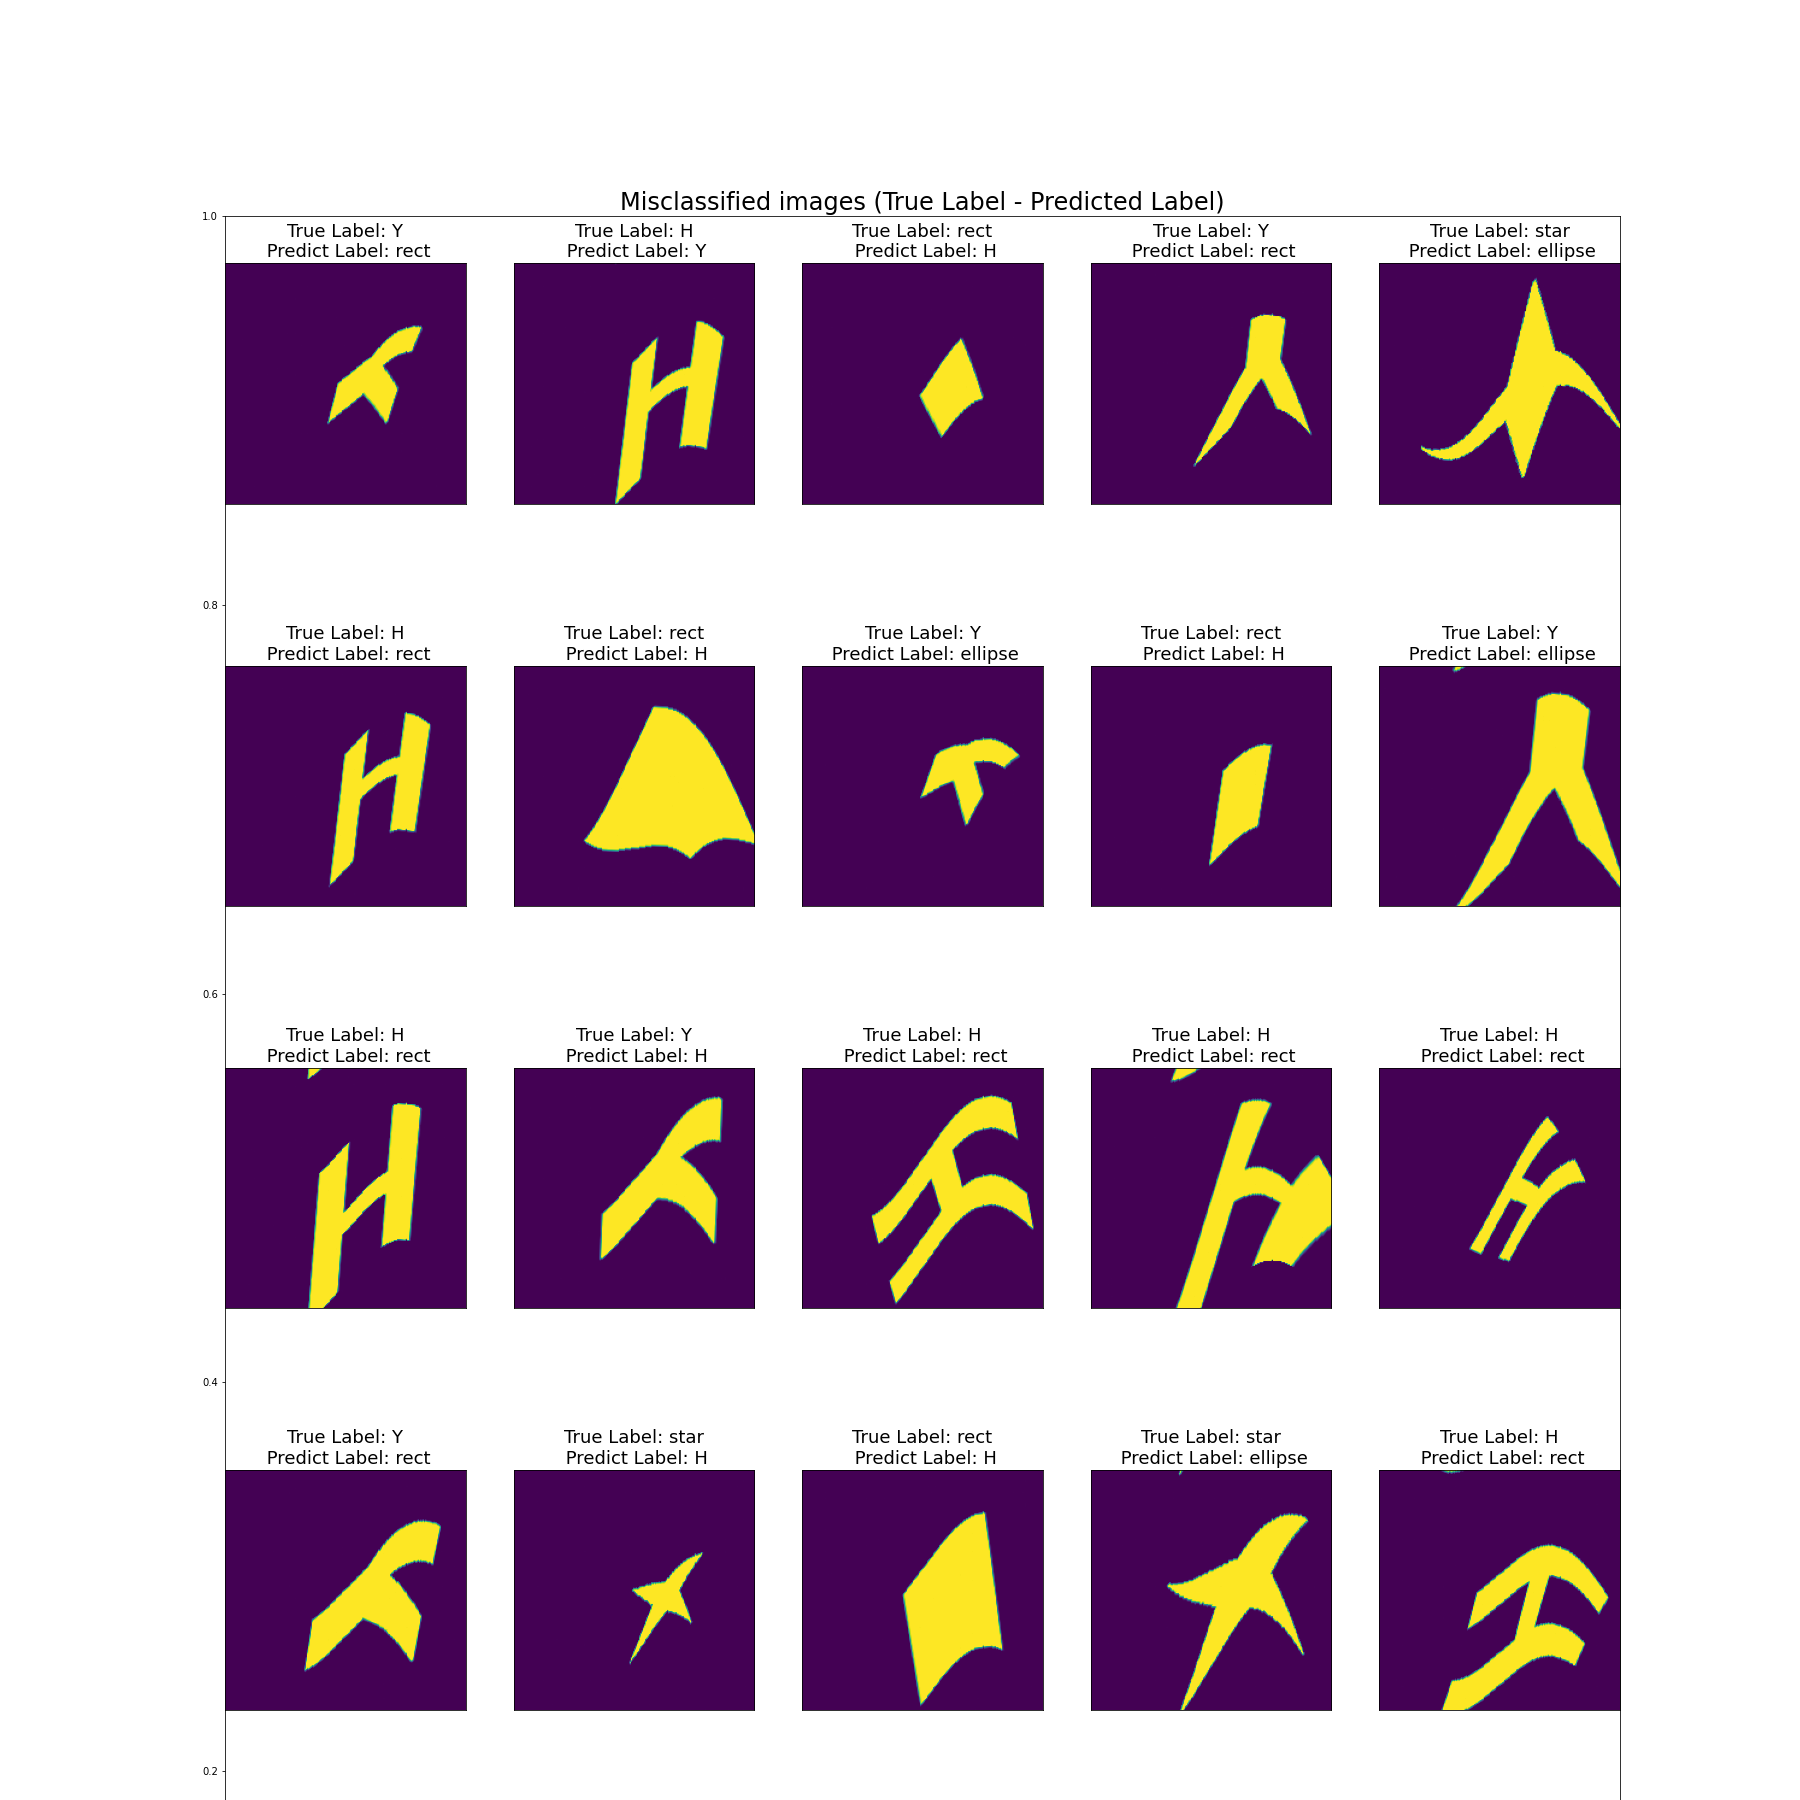
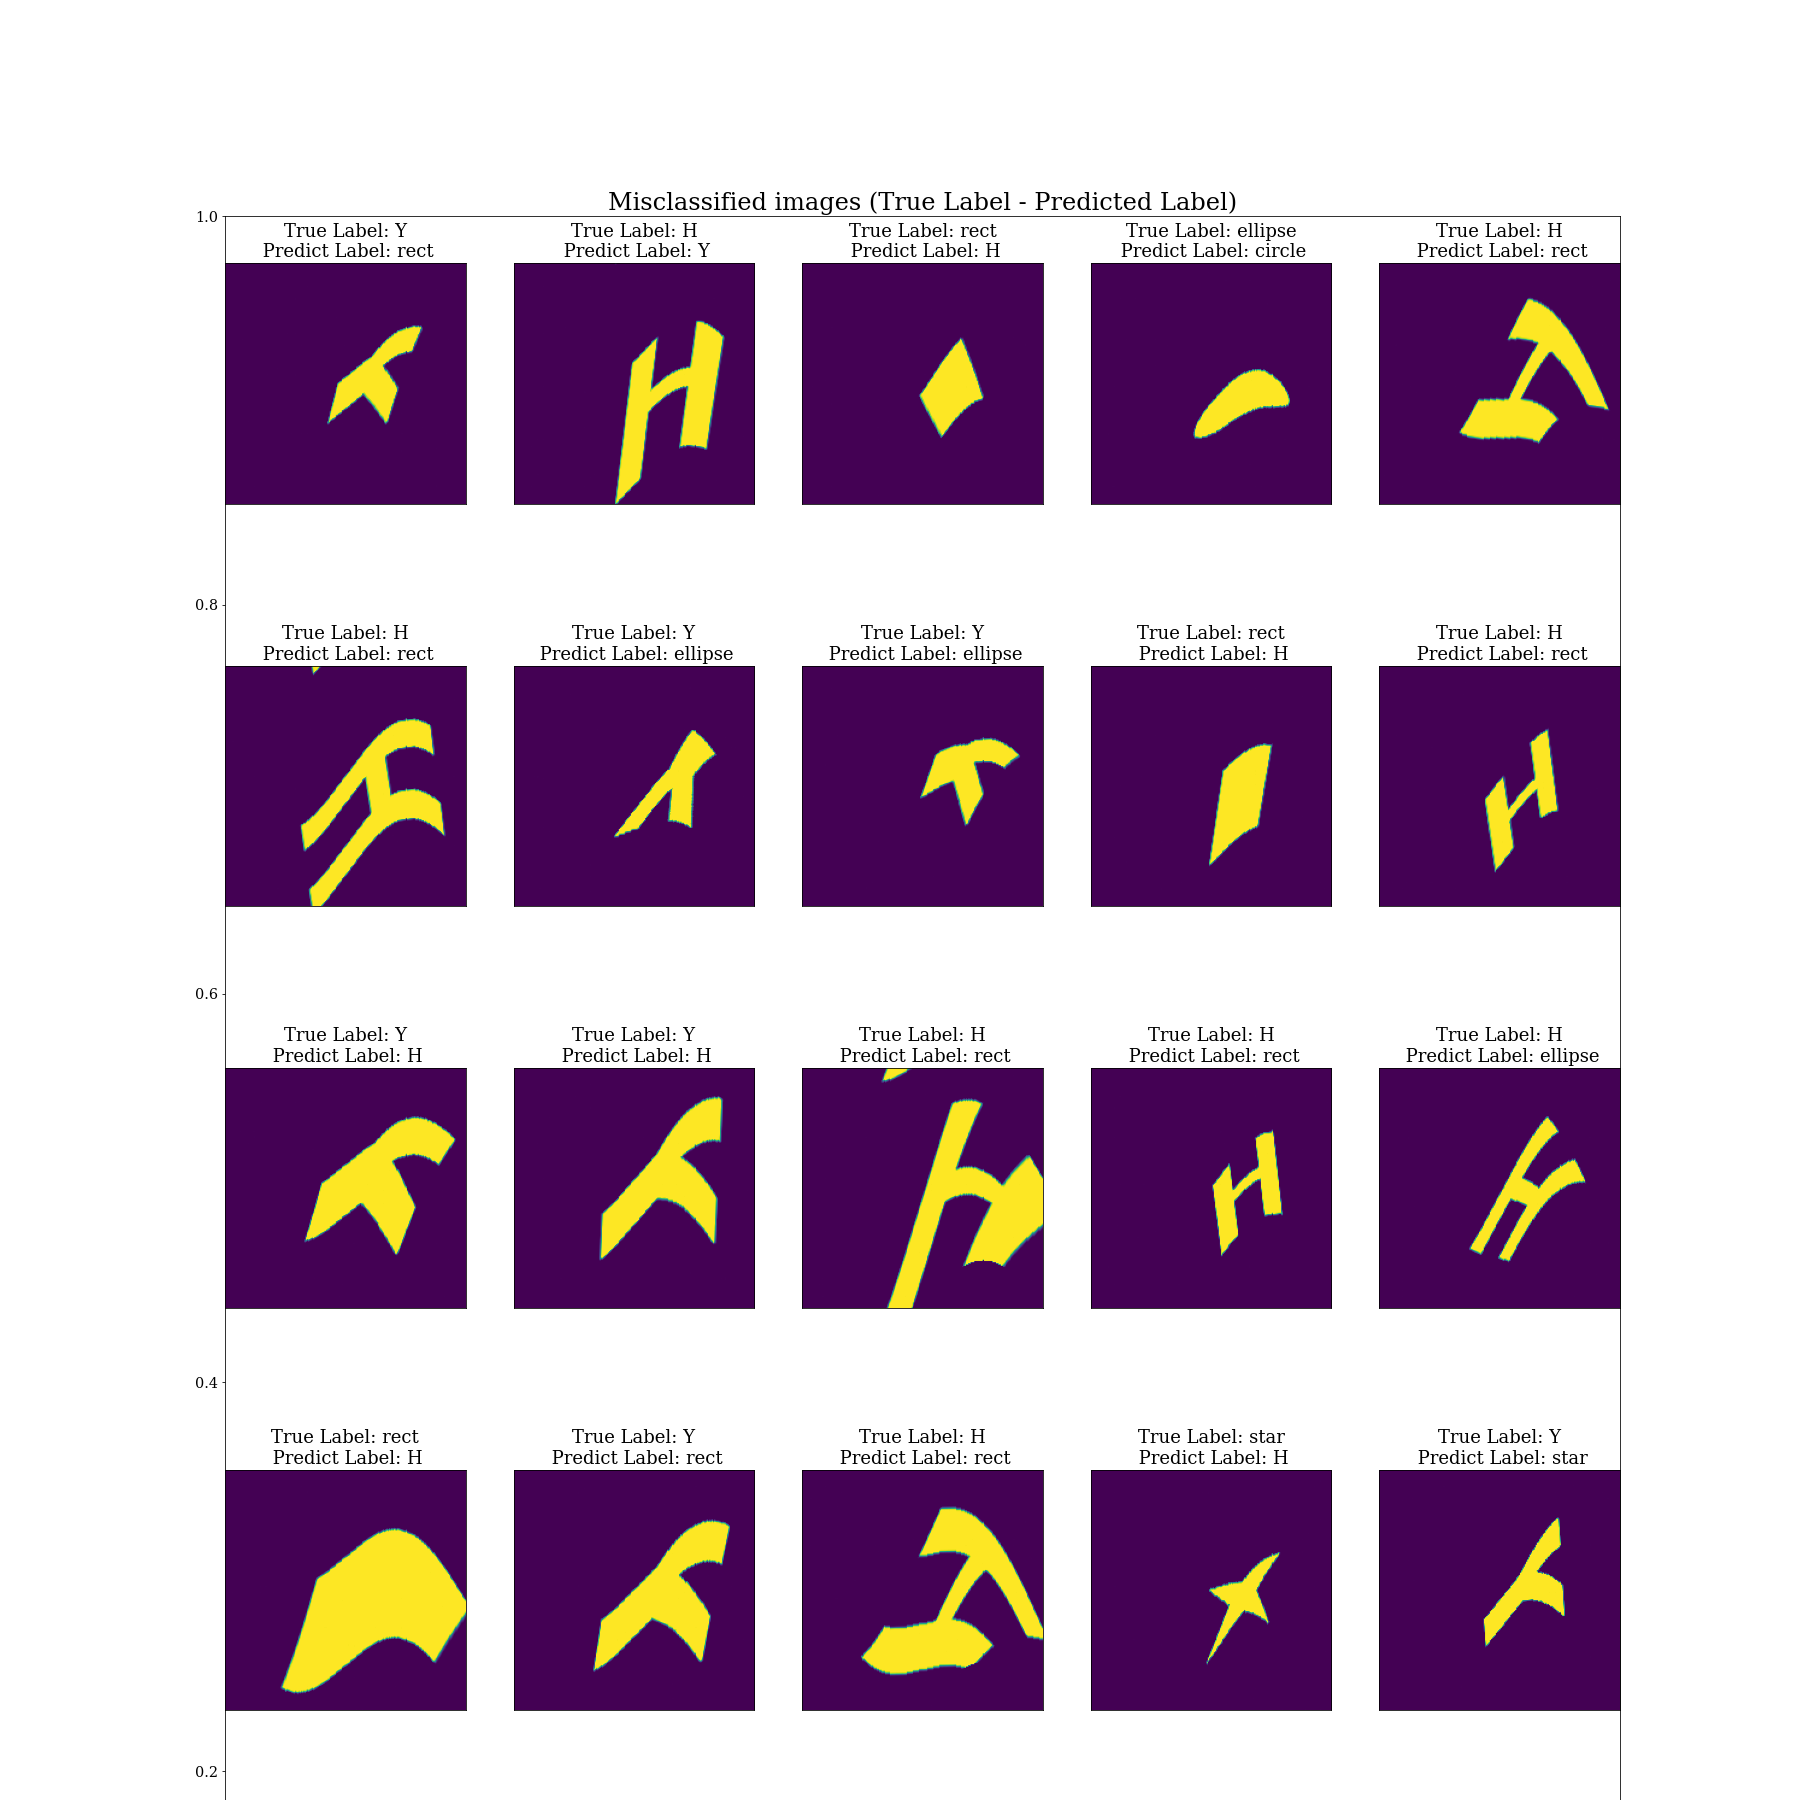
update images and ReadMe.md

diff --git a/README.md b/README.md
@@ -1,8 +1,8 @@
 # Characterization of forms and classification
 
-![](https://img.shields.io/badge/Python-v3.8-orange) ![](https://img.shields.io/badge/Ubuntu-E95420?style=for-the-badge&logo=ubuntu&logoColor=white)
+![](https://img.shields.io/badge/Python-v3.8-orange) ![](https://img.shields.io/badge/Ubuntu-E95420?style=for-the-badge&logo=ubuntu&logoColor=white)![Visual Studio Code](https://img.shields.io/badge/Visual%20Studio%20Code-0078d7.svg?style=for-the-badge&logo=visual-studio-code&logoColor=white) ![GitHub](https://img.shields.io/badge/github-%23121011.svg?style=for-the-badge&logo=github&logoColor=white) ![NumPy](https://img.shields.io/badge/numpy-%23013243.svg?style=for-the-badge&logo=numpy&logoColor=white) ![scikit-learn](https://img.shields.io/badge/scikit--learn-%23F7931E.svg?style=for-the-badge&logo=scikit-learn&logoColor=white) 
 
-Based on [PCA](https://en.wikipedia.org/wiki/Principal_component_analysis), synthesize 3 classifier ([KNN](https://en.wikipedia.org/wiki/K-nearest_neighbors_algorithm), [KMeans](https://en.wikipedia.org/wiki/K-means_clustering), [SVM](https://en.wikipedia.org/wiki/Support-vector_machine)), with generating images set from the scratch, achieve high test accuracy: $95%$ of **KNN**, $93%$ of **KMeans** and $97%$ of **SVM**.
+Based on [PCA](https://en.wikipedia.org/wiki/Principal_component_analysis), synthesize 3 classifier ([KNN](https://en.wikipedia.org/wiki/K-nearest_neighbors_algorithm), [KMeans](https://en.wikipedia.org/wiki/K-means_clustering), [SVM](https://en.wikipedia.org/wiki/Support-vector_machine)), with generating images set from the scratch, achieve high test accuracy: *95%* of **KNN**, *93%* of **KMeans** and *97%* of **SVM**.
 
 ## Prerequisites
 
@@ -23,7 +23,7 @@ pip install -r requirements.txt
 
 #### Dataset
 
-The training and test images can be found in [images share]().
+The training and test images can be found in [images share](https://www.kaggle.com/lonelvino/img-clf-cs).
 
 ## Usage
 
@@ -56,35 +56,63 @@ Optional Arguments:
                         'no', 'false', 'f', 'n', '0')
 ```
 
-For example: `python3 classify.py -M KNN KMeans -N 5000 -PN 13 -P yes -K yes`
+For example: 
+`python3 classify.py -M KNN KMeans -N 5000 -P yes -K yes`
 
-By running the command above,   $5000$ images will be used to train **KMeans** and **KNN** , and then to classify $500$ test images, with finding the best number of components in **PCA** and best number of clusters in **KMeans**.
+By running the command above,   $5000$ images will be used to train **KMeans** and **KNN** , and then to classify $500$ test images, before finding the best number of components in **PCA** and best number of clusters in **KMeans**.
 
 ## Performance
 
-##### KNN
+#### KNN
 
-The best *N* components of **PCA** with **KNN**,  and **Confusion Matrix**.
+1. The best *N* components of **PCA** with **KNN**
 
-<img src="assets/img/KNN/best_n_PCA_KNN.png" alt="ConfusionMatrix" style="zoom:85%;" /><img src="assets/img/KNN/ConfusionMatrix(test).png" alt="ConfusionMatrix" style="zoom:20%; margin-top:50px" />
+<img src="assets/img/KNN/best_n_PCA_KNN.png" alt="ConfusionMatrix" style="zoom:85%;" />
 
-##### KMeans
+2. **Confusion Matrix on Validation Set and Test Set**
 
+   <img src="assets/img/KNN/ConfusionMatrix.png" alt="ConfusionMatrix" style="zoom:75%; margin-right: 20px" /><img src="assets/img/KNN/ConfusionMatrix(test).png" alt="ConfusionMatrix" style="zoom:75%;" />
 
+3. **Precision-Recall Curve (PRC) and Receiver Operating Characteristic Curve (ROC)**:
 
-##### SVM
+   <img src="assets/img/KNN/PRC.png" alt="PRC" style="zoom:70%; margin-right:40px" /><img src="assets/img/KNN/ROC_curves(test).png" alt="PRC" style="zoom:20%;" />
 
-Confusion Matrix of Validation Set(Left) and Test Set(Right)
+#### KMeans
 
-<img src="assets/img/SVM/SVM_30_fft.png" alt="ConfusionMatrix" style="zoom:85%;" /><img src="assets/img/SVM/SVM_150_origin.png" alt="ConfusionMatrix" style="zoom:85%;" />
+1. The *best N component*s of **PCA** with **KMeans**, and the *best number of clusters* of **KMeans**:
 
-**PRC** curves (left) and **ROC** curves (right)
+   <img src="assets/img/K-means/best_n_pca.png" alt="best_n_pca" style="zoom:45%; margin-right:40px" /><img src="assets/img/K-means/best_number_clusters.png" alt="best_n_pca" style="zoom:45%;" />
 
-<img src="assets/img/SVM/PRC_curves_zoom_in.png" alt="ROC_curves" style="zoom:50%;" /><img src="assets/img/SVM/ROC_curves.png" alt="ROC_curves" style="zoom:13%; " />
+As we can see above, the *best N component*s of **PCA** is about *<u>16</u>* and the clustering performance improves as the *number of clusters* of **KMeans** increases, according to 5 important metrics ([Inertia](https://scikit-learn.org/stable/modules/clustering.html),[Homogeneity](https://scikit-learn.org/stable/modules/generated/sklearn.metrics.homogeneity_score.html), [Completeness](https://scikit-learn.org/stable/modules/generated/sklearn.metrics.completeness_score.html#sklearn.metrics.completeness_score),[V measure](https://scikit-learn.org/stable/modules/generated/sklearn.metrics.v_measure_score.html), [ARI](https://scikit-learn.org/stable/modules/generated/sklearn.metrics.adjusted_rand_score.html), [AMI](https://scikit-learn.org/stable/modules/generated/sklearn.metrics.adjusted_mutual_info_score.html)).
 
-**Misclassified Images:**
+> Theoretically the more clusters, the better the metrics, however, please note this will result in over-fitting and computation time explosion.
 
-<img src="assets/img/SVM/Misclassified Images (Test Set).png" alt="Misclassified Images (Test Set)" style="zoom:47%;" />
+2. **Confusion Matrix on Validation Set and Test Set**
+
+   <img src="assets/img/K-means/ConfusionMatrix.png" alt="ConfusionMatrix" style="zoom:95%; margin-right: 20px" /><img src="assets/img/K-means/ConfusionMatrix (Test Set).png" alt="ConfusionMatrix(test)" style="zoom:95%; margin-right: 20px" />
+
+   
+
+#### SVM
+
+1. The best *N* components of **PCA** with **SVM**
+
+   <img src="assets/img/SVM/best_n_pca.png" alt="best_n_pca" style="zoom:55%;" />
+
+2. **Confusion Matrix on Validation Set and Test Set**
+
+   <img src="assets/img/SVM/ConfusionMatrix.png" alt="ConfusionMatrix" style="zoom:95%; margin-right: 20px" /><img src="assets/img/SVM/ConfusionMatrix_test.png" alt="ConfusionMatrix(test)" style="zoom:95%; margin-right: 20px" />
+
+3. **PRC** curves  and **ROC** curves
+
+    <img src="assets/img/SVM/PRC_curves_zoom_in.png" alt="ROC_curves" style="zoom:60%;" />     <img src="assets/img/SVM/ROC_curves.png" alt="ROC_curves" style="zoom:55%; " />
+
+#### **Example of Misclassified Images**
+
+<img src="assets/img/KNN/Misclassified Images (Test Set).png" alt="Misclassified Images (Test Set)" style="zoom:47%;" />
+
+More classification information, please refer to: [Classification Report](assets/ClassificationReport.md)
+
 
 
 ## File Structure
@@ -131,3 +159,4 @@ Confusion Matrix of Validation Set(Left) and Test Set(Right)
 5. Qiu, Changzhen, et al. "Performance comparison of target classification in SAR images based on PCA and 2D-PCA features." *2009 2nd Asian-Pacific Conference on Synthetic Aperture Radar*. IEEE, 2009.
 6. Ayiah-Mensah, Francis, et al. "Recognition of augmented frontal face images using FFT-PCA/SVD algorithm." *Applied Computational Intelligence and Soft Computing* 2021 (2021).
 7. Molchanov, Vladimir, and Lars Linsen. "Overcoming the Curse of Dimensionality When Clustering Multivariate Volume Data." *VISIGRAPP (3: IVAPP)*. 2018.
+7. [Andrew Rosenberg and Julia Hirschberg, 2007. V-Measure: A conditional entropy-based external cluster evaluation measure](https://aclweb.org/anthology/D/D07/D07-1043.pdf)

diff --git a/assets/Classification Report.md b/assets/Classification Report.md
@@ -1,0 +1,132 @@
+## Classification Report
+
+### KNN
+
+**Validation Set**
+
+```
+				precision    recall  f1-score   support
+
+           1       0.96      1.00      0.98       237
+           2       0.93      0.85      0.89       201
+           3       1.00      0.99      0.99       204
+           4       0.98      0.96      0.97       201
+           5       0.81      0.95      0.88       186
+           6       0.99      0.92      0.96       221
+
+    accuracy                           0.94      1250
+   macro avg       0.95      0.94      0.94      1250
+weighted avg       0.95      0.94      0.95      1250
+```
+
+ **Test Set**
+
+```
+              precision    recall  f1-score   support
+
+           1       0.99      1.00      0.99        81
+           2       0.93      0.84      0.88        95
+           3       0.97      1.00      0.99        70
+           4       0.99      0.95      0.97        95
+           5       0.79      0.94      0.86        69
+           6       1.00      0.97      0.98        88
+
+    accuracy                           0.95       498
+   macro avg       0.95      0.95      0.95       498
+weighted avg       0.95      0.95      0.95       498
+```
+
+```
+One-vs-One ROC AUC scores:
+	0.997040 (macro), 0.997204 (weighted by prevalence)
+One-vs-Rest ROC AUC scores:
+	0.997226 (macro), 0.997390 (weighted by prevalence)
+```
+
+
+
+### KMeans
+
+**Validation Set**
+
+```
+			 precision    recall  f1-score   support
+
+           1       0.96      1.00      0.98       237
+           2       0.83      0.88      0.85       201
+           3       0.96      0.99      0.97       204
+           4       0.91      0.94      0.92       201
+           5       0.81      0.77      0.79       186
+           6       0.96      0.86      0.90       221
+
+    accuracy                           0.91      1250
+   macro avg       0.90      0.90      0.90      1250
+weighted avg       0.91      0.91      0.91      1250
+```
+
+**Test Set**
+
+```
+              precision    recall  f1-score   support
+
+           1       0.99      0.99      0.99        81
+           2       0.86      0.94      0.89        95
+           3       0.93      1.00      0.97        71
+           4       0.97      0.96      0.96        95
+           5       0.85      0.80      0.82        69
+           6       0.99      0.89      0.93        88
+
+    accuracy                           0.93       499
+   macro avg       0.93      0.93      0.93       499
+weighted avg       0.93      0.93      0.93       499
+```
+
+### SVC
+
+**Validation Set**
+
+```
+precision    recall  f1-score   support
+
+           1       1.00      1.00      1.00       237
+           2       0.98      0.95      0.96       201
+           3       1.00      1.00      1.00       204
+           4       0.97      0.99      0.98       201
+           5       0.93      0.97      0.95       186
+           6       1.00      0.97      0.98       221
+
+    accuracy                           0.98      1250
+   macro avg       0.98      0.98      0.98      1250
+weighted avg       0.98      0.98      0.98      1250
+```
+
+**Test Set**
+
+```
+precision    recall  f1-score   support
+
+           1       1.00      0.99      0.99        82
+           2       1.00      0.88      0.94        95
+           3       1.00      1.00      1.00        71
+           4       0.95      1.00      0.97        95
+           5       0.86      0.96      0.90        69
+           6       1.00      0.99      0.99        88
+
+    accuracy                           0.97       500
+   macro avg       0.97      0.97      0.97       500
+weighted avg       0.97      0.97      0.97       500
+```
+
+```
+Weighted Precision: 0.979592
+Weighted Recall: 0.979200
+Weighted fbeta Score: 0.979256
+
+
+One-vs-One ROC AUC scores:
+0.997935 (macro),
+0.998000 (weighted by prevalence)
+One-vs-Rest ROC AUC scores:
+0.998026 (macro),
+0.998073 (weighted by prevalence)
+```

diff --git a/assets/ClassificationReport.md b/assets/ClassificationReport.md
@@ -1,0 +1,52 @@
+## Classification Report
+
+### KNN
+
+**Validation Set**
+
+```
+				precision    recall  f1-score   support
+
+           1       0.96      1.00      0.98       237
+           2       0.93      0.85      0.89       201
+           3       1.00      0.99      0.99       204
+           4       0.98      0.96      0.97       201
+           5       0.81      0.95      0.88       186
+           6       0.99      0.92      0.96       221
+
+    accuracy                           0.94      1250
+   macro avg       0.95      0.94      0.94      1250
+weighted avg       0.95      0.94      0.95      1250
+```
+
+ **Test Set**
+
+```
+              precision    recall  f1-score   support
+
+           1       0.99      1.00      0.99        81
+           2       0.93      0.84      0.88        95
+           3       0.97      1.00      0.99        70
+           4       0.99      0.95      0.97        95
+           5       0.79      0.94      0.86        69
+           6       1.00      0.97      0.98        88
+
+    accuracy                           0.95       498
+   macro avg       0.95      0.95      0.95       498
+weighted avg       0.95      0.95      0.95       498
+```
+
+```
+One-vs-One ROC AUC scores:
+	0.997040 (macro), 0.997204 (weighted by prevalence)
+One-vs-Rest ROC AUC scores:
+	0.997226 (macro), 0.997390 (weighted by prevalence)
+```
+
+
+
+### KMeans
+
+
+
+### SVM
